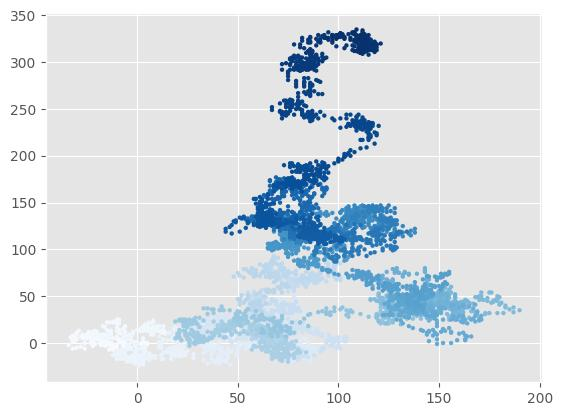
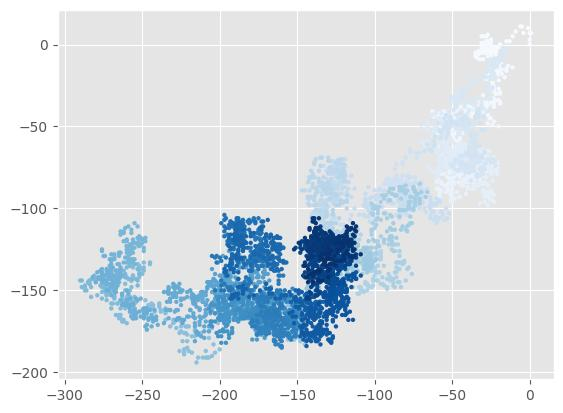
Matplotlib #9 Случайное блуждание с запросом на повтор + градиент + начальная и конечная точка + бех осей

diff --git a/rw_visual.py b/rw_visual.py
@@ -16,10 +16,12 @@ while True:
     # выделение первой и последней точки
     ax.scatter(0, 0, c='green', s=50, cmap=plt.cm.Blues, edgecolors='none')
     ax.scatter(rw.x_values[-1], rw.y_values[-1], c='red', edgecolors='none', s=50)
+
+    # удаление осей
+    ax.get_xaxis().set_visible(False)
+    ax.get_yaxis().set_visible(False)
     plt.show()
 
-
-
-    keep_running = input("Make anower walk? (y/n)")
+    keep_running = input("Make anower walk? (y/n): ")
     if keep_running == 'n':
         break
